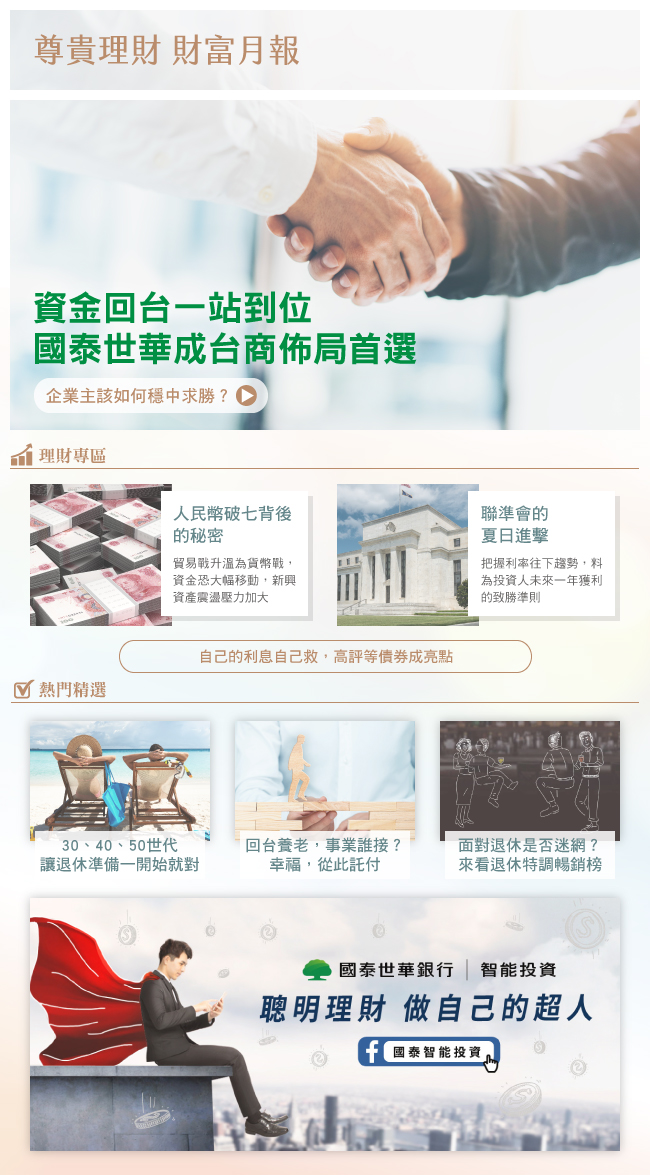
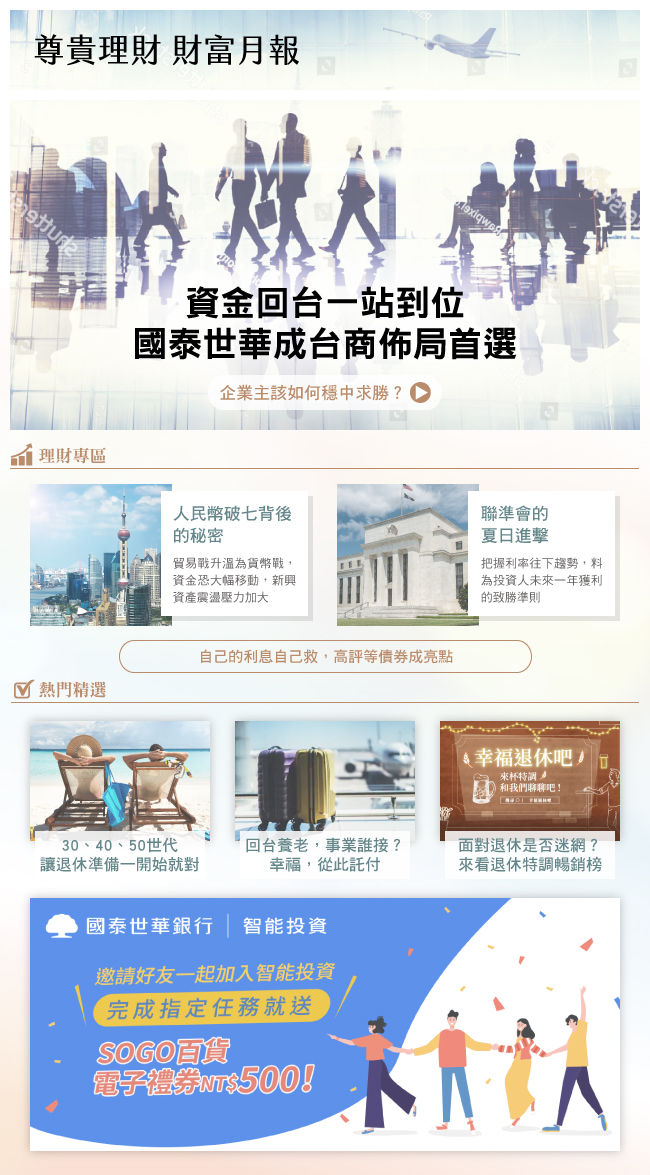
update

diff --git a/monthly-report-201909/index.html b/monthly-report-201909/index.html
@@ -80,7 +80,7 @@
             <td height="59" valign="bottom"><table width="630" border="0" align="center" cellpadding="10" cellspacing="0">
               <tbody>
                 <tr>
-                  <td width="415"><a href="https://www.cathaybk.com.tw/cathaybk/promo/event/ebanking/product/2017/mmb/index.html" target="_blank" class="link_text" style="font-size:14px;">行動銀行App</a><span class="link_text" style="font-size:14px;color: #333333"> │ </span><a href="https://www.cathaybk.com.tw/cathaybk/contact/intro/telephone/" target="_blank" class="link_text" style="font-size:14px;">聯絡我們</a><span class="link_text" style="font-size:14px;color: #333333"> │ </span><a href="mailhuntercanceledm.aspx" class="link_text" style="font-size:14px;">退訂電子報</a><span class="link_text" style="font-size:14px;color: #333333">│</span> <a href="https://www.cathaybk.com.tw/cathaybk/about/about/customer-benefits/client-secret/" target="_blank" class="link_text" style="font-size:14px;">顧客資料保密措施</a></td>
+                  <td width="415"><a href="https://www.cathaybk.com.tw/cathaybk/promo/event/ebanking/product/2017/mmb/index.html" target="_blank" class="link_text" style="font-size:14px;">行動銀行App</a><span class="link_text" style="font-size:14px;color: #333333"> │ </span><a href="https://www.cathaybk.com.tw/cathaybk/contact/intro/telephone/" target="_blank" class="link_text" style="font-size:14px;">聯絡我們</a><span class="link_text" style="font-size:14px;color: #333333"> │ </span><a href="https://news.mybank.com.tw/cathaybk_a/mailhuntercanceledm.aspx" class="link_text" style="font-size:14px;">退訂電子報</a><span class="link_text" style="font-size:14px;color: #333333">│</span> <a href="https://www.cathaybk.com.tw/cathaybk/about/about/customer-benefits/client-secret/" target="_blank" class="link_text" style="font-size:14px;">顧客資料保密措施</a></td>
                   <td width="155" align="right"><a href="https://www.cathaybk.com.tw/cathaybk/" target="_blank" class="link_text" style="font-size:14px;">www.cathaybk.com.tw</a></td>
                 </tr>
               </tbody>
@@ -112,7 +112,7 @@
   <area shape="rect" coords="29,721,210,881" href="https://www.cw.com.tw/article/article.action?id=5096348&CUB_SRC=EDM&CUB_CHL1=BAN&CUB_CHL2=01&MA_TK=WS010&CUB_DT=20190910" target="_blank" alt="30、40、50世代，讓退休準備一開始就對">
   <area shape="rect" coords="235,720,416,881" href="https://www.cathaybk.com.tw/cathaybk/promo/edm/wealth/product/201909/Wealth03/index.html?CUB_SRC=EDM&CUB_CHL1=BAN&CUB_CHL2=01&MA_TK=WS010&CUB_DT=20190910" target="_blank" alt="回台養老，事業誰接？幸福，從此託付">
   <area shape="rect" coords="439,721,621,879" href="https://www.cathaybk.com.tw/cathaybk/promo/event/content/financial/Best_Arranged_Retirement/index.html?CUB_SRC=EDM&CUB_CHL1=BAN&CUB_CHL2=01&MA_TK=WS010&CUB_DT=20190910#bar-talk" target="_blank" alt="面對退休是否迷網？來看退休特調暢銷榜">
-  <area shape="rect" coords="29,898,621,1153" href="http://bit.ly/31ylW9y?CUB_SRC=EDM&CUB_CHL1=BAN&CUB_CHL2=01&MA_TK=WS010&CUB_DT=20190910" target="_blank" alt="聰明理財，做自己的超人">
+  <area shape="rect" coords="29,898,621,1153" href="https://www.cathayrobo.com/welcome/activity/invitation2019Q4/index.html?CUB_SRC=EDM&CUB_CHL1=BAN&CUB_CHL2=01&MA_TK=WS010&CUB_DT=20190910&utm_source=EDM_wealth&utm_medium=button" target="_blank" alt="邀請好友一起加入智能投資">
 </map>
 <map name="Map2">
   <area shape="circle" coords="26,24,21" href="https://www.facebook.com/cathayunitedbank?CUB_SRC=EDM&CUB_CHL1=BAN&CUB_CHL2=01&MA_TK=WS009&CUB_DT=20190810" target="_blank" alt="國泰世華＊Enrich Your Life＊">
